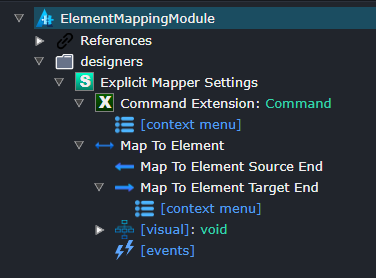
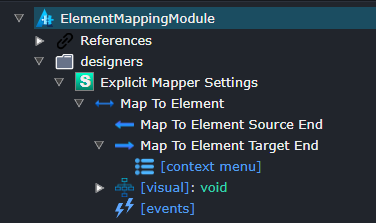
Some polishing.

Changed region(s): [[0.0293, 0.0269, 1.0, 0.9686]]

diff --git a/articles/module-building/tutorial-advanced-mapping/tutorial-advanced-mapping.md b/articles/module-building/tutorial-advanced-mapping/tutorial-advanced-mapping.md
@@ -5,104 +5,121 @@ uid: module-building.tutorial-advanced-mapping
 
 ## Overview
 
-This tutorial will guide you through setting up advanced mapping between a CQRS Command and a Domain Entity Class using Intent Architect. This allows for automatic code generation that maps properties from a command (or DTO) to associated properties or fields of a domain entity.
+This tutorial will guide you through setting up an advanced mapping configuration and corresponding consuming code in a template between a CQRS Command and a Domain Entity Class using Intent Architect. This allows for automatic code generation that maps properties from a command (or DTO) to associated properties or fields of a domain entity.
 
 ![Advanced mapping](images/advanced-mapping.png)
 
-## Create a New Module Builder Application
+## Create a new Module Builder Application
 
-- Open Intent Architect and create a new Module Builder application named `ElementMappingModule`.
-- Ensure you include the necessary components: `Module Builder C#`, `Domain`, and `Services`.
-- Once the `ElementMappingModule` is created, right-click on the new application and select `Manage Modules`.
+- On the Intent Architect home screen select the _Create a new module_ button on the left under _Get started_.
+- On the create application dialogue set the _Name_ to `ElementMappingModule` and press _NEXT_.
+- On the component selection screen of the dialogue, ensure the following optional components are selected:
+  - _Module Builder - C#_
+  - _Domain_
+  - _Services_
+- Press the _CREATE_ button and wait for the application creation process to complete.
+- Right-click on the `ElementMappingModule` application in the Solution Explorer and select the _Manage Modules_ option.
 - Search for `cqrs`.
-- Install the `Intent.Modelers.Services.CQRS` module. Expand the `Options` section on the right-hand side and check `Install metadata only`.
+- Select the _Intent.Modelers.Services.CQRS_ search result.
+- Expand the _Options_ dropdown in the right pane and check the _Install metadata only_ option:
 
-## Setup Designer Settings
+  ![The install metadata only option](images/install-metadata-only-option.png)
 
-With designer settings, you can introduce new elements such as extensions, associations, and mapping configurations to the designers. This enhances the visual modeling capabilities of Intent Architect, making it easier to create more sophisticated and detailed models that are tailored to the application's needs.
+- Press the _Install_ button on the right.
+
+## Create the Designer Settings
+
+Designer settings enable the definition of new designer components such as elements, associations and mapping configurations as well as extending the behaviour of existing designer components.
+
+Highly customizable and configurable designers is a key feature of Intent Architect as it allows the creation of visual designers which are perfectly suited to developers using Intent Architect to design their applications for particular technologies or architectural concepts.
 
 ![Designer settings](images/designer-settings.png)
 
-- In the `Module Builder`, create a `Designer Settings` named `Explicit Mapper Settings`.
-- Within this folder, create a `Designer Settings` item named `Command Extension`.
-- Set the `Extended Designers` property to reference the `Services` designer.
-- Add an `Element Extension` with the name `Command Extension` and target the `Command` type from the CQRS module.
+- Open the _Module Builder_ designer from the _Solution Explorer_.
+- Right-click the package (the root node of the tree view) and select the _Add Designers Folder_.
+- Right-click the `designers` folder and select the _New Designer Setting_ option and give it the name `Explicit Mapper Settings`.
+- In _Properties_ pane for the _Extend Designers_ property add `Services`:
 
-## Define the Mapping Associations
+  ![The "Extend Designers" "Designer Settings" property](images/extend-designers-designer-settings-property.png)
 
-Defining mapping associations allows users to establish explicit relationships between commands and domain classes. This facilitates the automatic generation of mapping code based on these defined relationships.
+## Define Associations onto which Advanced Mapping configurations will be added
+
+Defining mapping associations allows users to establish explicit relationships between elements, e.g. between _Commands_ and domain _Classes_, we are then able to add any number of Advanced Mapping configurations onto these associations which users can leverage as needed.
 
 ![Designer Associations](images/designer-associations.png)
 
-- Create a new `Association Type` named `Map to Element`.
-- Set the `Source End` to `Command`.
-  - The next steps involve setting `Display Text Functions` that control the text that gets displayed when referencing the Source or Target end of the association. The functions are written in JavaScript.
-  - Set the Display Text Function to:
+- Right-click on `Explicit Mapper Settings`, select the _New Association Type_ option and give it a name of `Map to Element`.
+- Select the `Map to Element Source End` element in the tree view and under _Settings_ in the _Properties_ pane on the right:
+  - For the _Target Type_ property set it to `Command`:
+
+     ![Target Types property](images/target-types-property.png)
+
+  - For the _Display Text Function_ property, use the pencil icon on the right of the text field to bring up a JavaScript code editor. We're going to want to return a string which makes key information about the mapping visible in the designer. You can enter the following into the code editor dialogue:
 
     ```javascript
     return `mapped by : ${typeReference.getType().getParent().getName()}.${typeReference.display}`;
     ```
 
-  - Set the Name Accessibility to `Hidden`.
-- Set the `Target End` to `Class`.
-  - Set the Display Text Function to:
+  - Set the _Name Accessibility_ property to `Hidden`, this will prevent users from being able to change the name of the association.
+- Select the `Map to Element Target End` element and under _Settings_ in the _Properties_ pane on the right:
+  - Set the _Target Type_ property to `Class`.
+  - Set the _Display Text Function_ property to:
 
     ```javascript
     const returnType = typeReference.getType()?.typeReference?.display ?? "void";
     return `[map] ${getName()}: ${`${typeReference.getType()?.getName()}(...): ${returnType}` ?? "<not set>"}`;
     ```
 
-  - Set the Name Accessibility to `Optional`.
-- Right-click on `Map to Element` and select `Add Visual Settings`, ensure the Type is `void`.
-- Set its properties:
-  - Line Type `Curved`.
-  - Line Dash Array `return "3, 7";`.
-- Right-click on the `[visual]` and add a `Source` visual.
-- The next steps involve `Point Settings` which are [SVG Paths](https://developer.mozilla.org/en-US/docs/Web/SVG/Tutorial/Paths) used to draw an image resembling an arrow-line that represents the element mapping.
-- Set its properties on Point Settings:
-  - Path:
+  - Set the _Name Accessibility_ property to `Optional`.
+- Right-click on the `Map to Element` element, select the _Add Visual Settings_ option and ensure the _Type_ is set to `void`.
+- Select the `[visual]` element in the tree view and in the _Properties_ pane on the right:
+  - Set the _Line Type_ property to `Curved`.
+  - Set the _Line Dash Array_ property to `return "3, 7";`.
+- Right-click on the `[visual]` element and select the _Add Source Visual_ option.
+- Select the `[source]` element in the tree view and in the _Properties_ pane on the right:
+  - Under the _Point Settings_ section:
+    - Set the _Path_ property to the following to control the [SVG path](https://developer.mozilla.org/docs/Web/SVG/Tutorial/Paths) to define the visual for the end of the line, in this case an arrow:
 
-    ```js
-    return `a 4,4 0 1,0 4,4 a 4,4 0 1,0 -4,4`;
-    ```
+      ```js
+      return `a 4,4 0 1,0 4,4 a 4,4 0 1,0 -4,4`;
+      ```
+  
+    - Set the _Line Width_ property to `return 3;`.
+    - We have now configured that a solid circle is to be drawn on the Source end.
+- Right-click on the `[visual]` element and select the _Add Destination Visual_ option.
+- Select the `[source]` element in the tree view and in the _Properties_ pane on the right:
+  - Under the _Point Settings_ section:
+    - Set the _Path_ property to the following to have it in this case draw a triangle:
 
-  - Line Width `return 3;`.
-  - This will draw the solid circle on the Source end.
-- Right-click on the `[visual]` and add a `Destination` visual.
-- Set its properties on Point Settings:
-  - Path:
-
-    ```js
-    return `l 4 8 l -8 0 l 4 -8 Z`;
-    ```
-
-  - This will draw the triangle pointer on the Target end.
+      ```js
+      return `l 4 8 l -8 0 l 4 -8 Z`;
+      ```
 
 ## Define the Element Mapping
 
-Element mappings specify how different elements within the source (like DTOs and Commands) should map to the target (like Domain Classes and Associations). This allows for the detailed configuration of how data should be transferred and transformed between different parts of the application.
+Element mappings specify how different element types (like DTOs and Commands) should map to the target (like Domain Classes and Associations). This allows for detailed configuration of how data should be transferred and transformed between different parts of the application.
 
 ![Element Mapping](images/element-mapping.png)
 
-The `Source` elements within the settings (such as Command, DTO with nested Fields) indicate the elements from which you can map. On the other hand, the `Target` elements (such as Class, Attribute, and Associations) indicate where you can map to. This setup ensures there's a clear and traversable path for data or actions between various parts of your model.
+The _Source_ elements within the settings (such as Command or DTO with nested Fields) indicate the elements from which you can map. On the other hand, the _Target_ elements (such as Class, Attribute, or Associations) indicate where you can map to. This setup ensures there's a clear and traversable path for data or actions between various parts of your model.
 
-Create a new `Mapping Settings` in the `Explicit Mapper Settings` Designer Settings and name it `Element Mapping`.
+Right-click on the `Explicit Mapper Settings` element on the tree view, select the _New Mapping Settings_ option and give it a name of `Element Mapping`.
 
-Create the following `Mappable Element Settings` inside the `Source` element (with its own Target Type) by right-clicking on `Source` and selecting `Add Mappable Element`:
+Starting on the `Source` element, right-click it and select the `Add Mappable Element` option to create tree structure:
 
-- **Command** (`Command`)
-- **DTO** (`DTO`)
-  - **Field** (`DTO-Field`)
-  - **Collection Field** (`DTO-Field`)
+- Name of `Command` with it's _Target Type_ set to `Command`.
+- Name of `DTO` with it's _Target Type_ set to `DTO`
+  - Name of `Field` with it's _Target Type_ set to `DTO-Field`
+  - Name of `Collection Field` with it's _Target Type_ set to `DTO-Field`.
 
 The next steps will be addressing the following property types:
 
 - **Represents**: . This will be further addressed in the [Invocation Mapping](#invocation-mapping) and [Data Mapping](#data-mapping).
 - **Is Mappable Function**: If it returns `true` the element is allowed to be mapped from/to. This is useful in cases where elements may be greyed out since they are read-only for instance on the target end.
-- **Allow Multiple Mappings**: Allow for element to be mapped from/to multiple times.
+- **Allow Multiple Mappings**: Allow for the element to be mapped from/to multiple times.
 - **Can Be Modified**: Should it be permissible to generate and automatically link these fields if they do not already exist at the other end upon a double-click action (as an example)?
 - **Traversable Mode**: This mode enables elements that link to other types of elements to be expanded, making their child elements accessible for mapping. By choosing this mode, you can specify which types of elements are permitted to enter the traversal. For instance, consider a Class `Order` that contains a collection of `OrderLines` as an association; using this mode, you can navigate through the collection to map to its constituent elements.
-- **Use Child Mappings From**: Rather than replicating mappings for child elements along with their associated property values, you have the option to "borrow" the child-element structure from another element type. For instance, Command could adopt the child mappings from DTO, given their structural similarity despite serving different purposes.
+- **Use Child Mappings From**: Rather than replicating mappings for child elements along with their associated property values, you have the option to "re-use" the child-element structure from another element type. For instance, `Command` could adopt the child mappings from `DTO`, given their structural similarity despite serving different purposes.
 
 Set the properties for the following source elements:
 
@@ -149,12 +166,12 @@ Set the properties for the following source elements:
   - Traversable Types `DTO: DTO`.
   - Can Be Modified `checked`.
 
-Create the following `Mappable Element Settings` inside the `Target` (or Destination) element (with its own Target Type) by right-clicking on `Target` and selecting `Add Mappable Element`:
+Create the following `Mappable Element Settings` inside the `Target` (or Destination) element (with its own Target Type) by right-clicking on `Target` element and selecting the `Add Mappable Element` option:
 
-- **Create Class** (`Class`)
-  - **Set Attribute** (`Attribute`)
-  - **Set Association Target End** (`Association Target End`)
-  - **Set Association Source End** (`Association Source End`)
+- Name of `Create Class` with it's _Target Type_ set to `Class`.
+  - Name of `Set Attribute` with it's _Target Type_ set to `Attribute`.
+  - Name of `Set Association Target End` with it's _Target Type_ set to `Association Target End`.
+  - Name of `Set Association Source End` with it's _Target Type_ set to `Association Source End`.
 
 Set the properties for the following target elements:
 
@@ -182,41 +199,50 @@ Set the properties for the following target elements:
   - Traversable Types `Create Class: Class`.
   - Use Child Mappings From `Create Class: Class`.
 
-Add the following Mapping Types to the `Element Mapping` by right-clicking and selecting `Add Mapping Type` and set their properties accordingly:
+Add the following Mapping Types to the `Element Mapping` by right-clicking and selecting the `Add Mapping Type` option and set their properties accordingly:
 
-### Invocation Mapping
+### Invocation mapping
 
 - Source Types `Command: Command`.
 - Target Types `Create Class: Class`.
 - Represents `Invokable`.
 
-Example of an Invocation mapping:
 ![Invocation mapping](images/invocation-mapping.png)
 
-This mapping method facilitates the creation of an instance or execution of an operation on a target Entity. This can be done by directly calling the Entity's constructor, either explicitly or implicitly, or by solely executing the Entity's operation. To illustrate, a `CreateOrderCommand` could correspond to the constructor of an `Order` class, initializing necessary fields directly. This approach guarantees a consistent and foreseeable setup of the target entity.
+_Example of an Invocation mapping._
 
-### Data Mapping
+This mapping method facilitates the creation of an instance or execution of an operation on a target Entity. This can be done by directly calling the Entity's constructor, either explicitly or implicitly, or by solely executing the Entity's operation. To illustrate, a `CreateOrderCommand` could correspond to the constructor of an `Order` class, initializing necessary fields directly.
+
+### Data mapping
 
 - Source Types `Field: DTO-Field`, `Collection Field: DTO-Field`.
 - Target Types `Set Attribute: Attribute`, `Set Association Target End: Association Target End`.
 - Represents `Data`.
 
-Example of a Data mapping:
 ![Data Mapping](images/data-mapping.png)
 
-This type of mapping is intended for direct assignment of values from fields in the source object to attributes or relationships in the target object. It handles both s
-ingle-value fields and collections. By defining these mappings, fields from a command or DTO can be accurately transferred and mapped to corresponding properties of a domain entity, ensuring
- data integrity and consistency. For example, the `RefNo` and `CreatedDate` attributes of an `Order` entity can be directly mapped from fields in a command or DTO, ensuring each attribute is correctly populated.
+_Example of a Data mapping._
 
-## Create Context Menus
+This type of mapping is intended for direct assignment of values from fields in the source object to attributes or relationships in the target object. It handles both s
+ingle-value fields and collections. By defining these mappings, fields from a command or DTO can be accurately transferred and mapped to corresponding properties of a domain entity, ensuring data integrity and consistency. For example, the `RefNo` and `CreatedDate` attributes of an `Order` entity can be directly mapped from fields in a command or DTO, ensuring each attribute is correctly populated.
+
+## Create Command element extensions
+
+An _Element Extension_ allows extension of behaviour of an Element defined in another module, such as adding a context menu option. We're going to want to want to extend `Command` elements to have a context menu option to:
+
+- Right-click the `Explicit Mapper Settings` element and select the Within this folder, create a `Designer Settings` item named `Command Extension`.
+- Set the `Extended Designers` property to reference the `Services` designer.
+- Add an `Element Extension` with the name `Command Extension` and target the `Command` type from the CQRS module.
+
+## Add a context menu option to Commands to create a mapping
 
 To provide a way for users to create these Element Mappings between Commands and Domain Classes and to map the data flow between them, context menus will be added to enable the user to perform those functions.
 
 To create the `Map To Element` association and perform the `Element Mapping` mapping, we need to set up their context menu options.
 
-On the `Command Extension`, ensure that the `[context menu]` element exists by right-clicking on it and selecting `Add Menu Options`.
+On the `Command Extension`, ensure that the `[context menu]` element exists by right-clicking on it and selecting the `Add Menu Options` option.
 
-On the `[context menu]` element, right-click and select `Add Association Creation`. Name it `Add element mapping` and set the type to `Map To Element`.
+On the `[context menu]` element, right-click and selecting the `Add Association Creation` option. Name it `Add element mapping` and set the type to `Map To Element`.
 
 Next, go to the `Map To Element` association and locate the `Map To Element Target End` destination end. Ensure it too has the `[context menu]` created by selecting `Add Menu Options` when right-clicking on the element.
 
@@ -224,13 +250,13 @@ On the `[context menu]`, right-click and select `Add Mapping Option` and name it
 
 ![Context menus](images/context-menus.png)
 
-## Create Template for Mapping Code
+## Interpreting a mapping from a template to generate code
 
-Creating a template for mapping code involves defining a custom template that generate the necessary code to perform the mappings. This step ensures that the mappings defined in the designer are translated into executable code.
+Creating a template for mapping code involves defining a custom template that generates the necessary code to perform the mappings. This step ensures that the mappings defined in the designer are translated into executable code.
 
 ![Template for Mapping code](images/template-mapping-code.png)
 
-Create a new template in the `ElementMappingModule` for mapping commands to domain entities by right-clicking on the `ElementMappingModule` package and selecting `New C# Template`.
+Create a new template in the `ElementMappingModule` for mapping commands to domain entities by right-clicking on the `ElementMappingModule` package and selecting the `New C# Template` option.
 
 Ensure the following properties are set:
 
